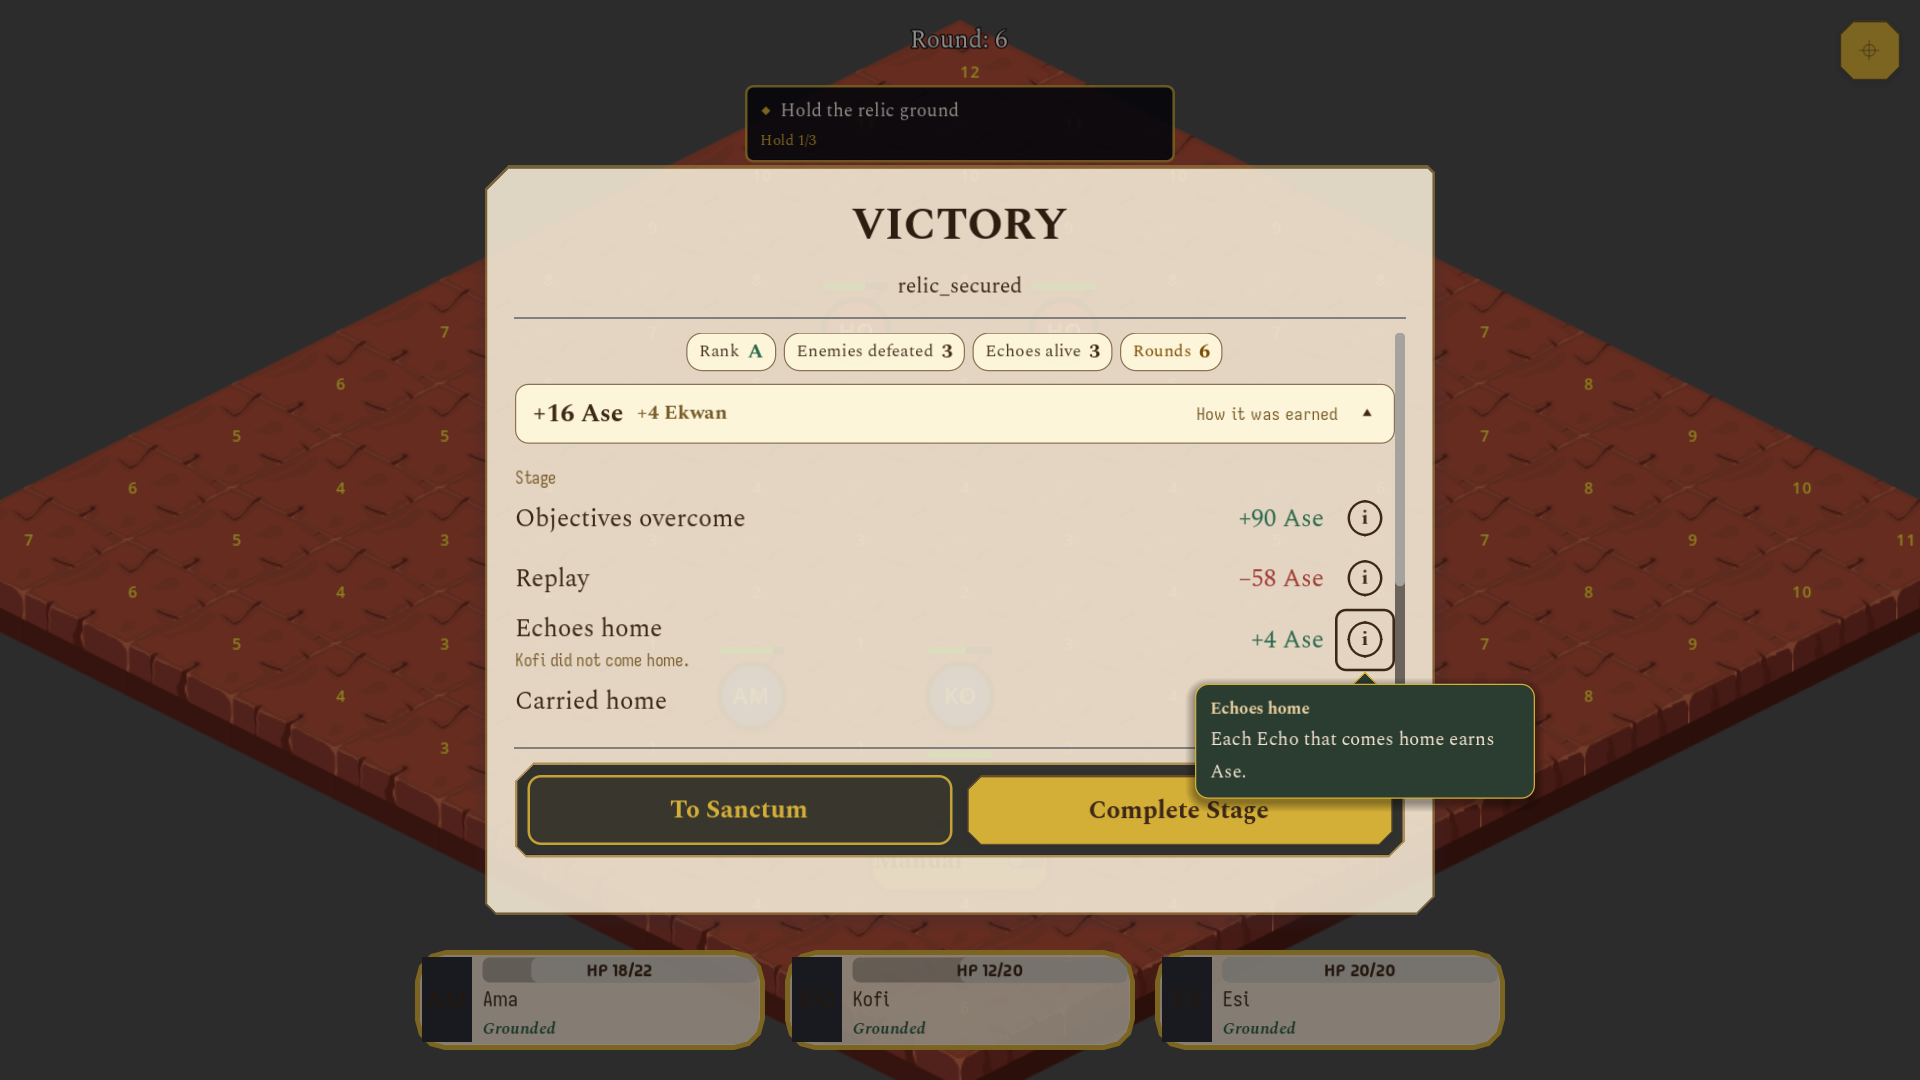
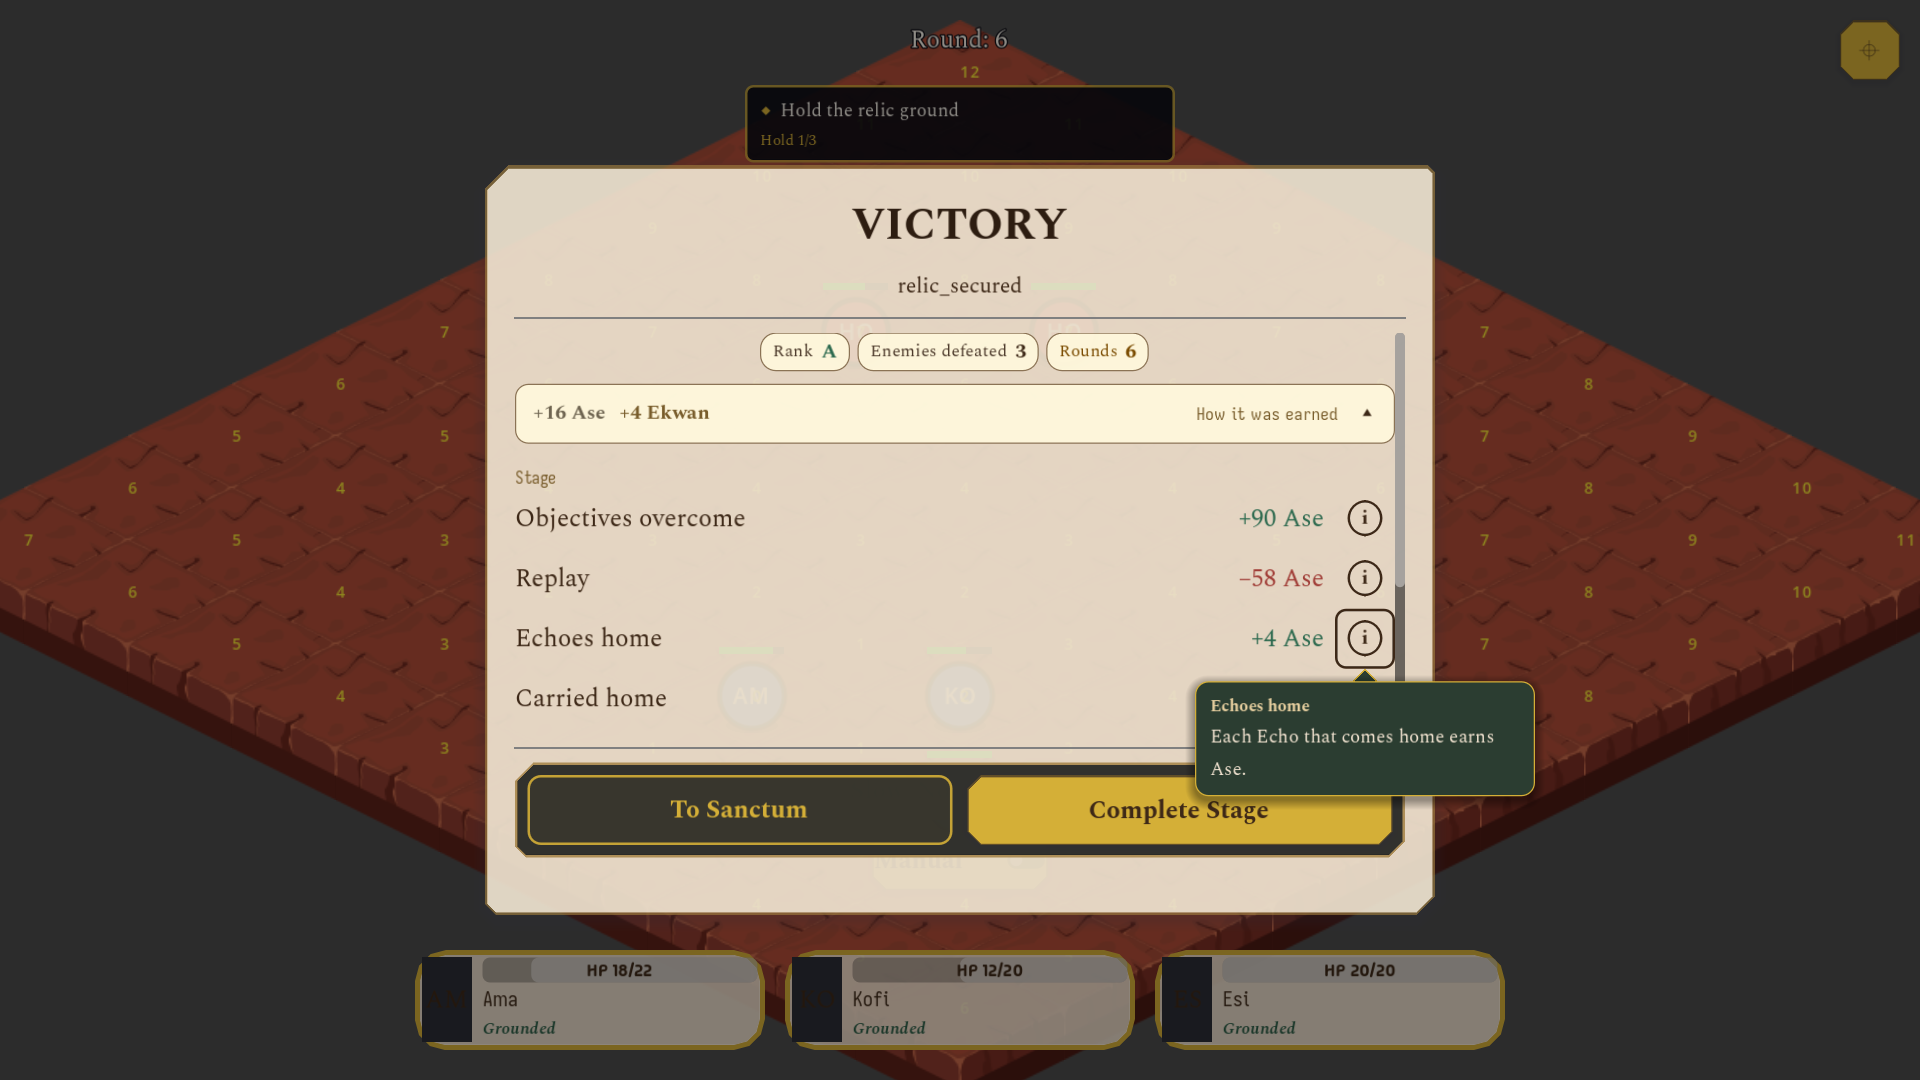
Test Direction E cards; add fixtures, screenshots and notes
Six new payout_ui tests. Screenshot fixtures skip motion to a fixed final state.

diff --git a/docs/stories/v2-payout-explanation/decisions.md b/docs/stories/v2-payout-explanation/decisions.md
@@ -86,3 +86,17 @@ Open for the UI: the return and retreat confirmation can say what is banked now 
   - `carried_advance` tooltip: "Ase and Ekwan the party carried home earlier are taken off the stage payout, so nothing is earned twice."
   - lost-names note: "Kofi did not come home." / "Ama and Kofi did not come home." / "Ama, Kofi and Esi did not come home."
 - All copy stays in `ui/components/PayoutCausePresentation.gd`.
+
+## Direction E cards, Part A (UI, 2026-10-24)
+
+- Mid-stage win card (a win with no fight rows and no stage rows): party and state, then up to three lines, each only when the snapshot has data. No Ase, no ledger, no chips. The rows rise in turn (alpha fade, 100 ms apart).
+- Stage-ending card: the home sequence (party first, each Echo "home" in turn at 130 ms, a lost Echo holds 550 ms and is named once, then the count "home N of M" completes, then the quiet Ase figure fades in at 16 px, muted). The "Echoes alive" chip gives way to the count.
+- Motion: reduced motion shows the final state at once. The one flag is `StopMarkMotion.reduced` (nothing sets it yet). A tap or key press skips to the final state and never consumes the input. Footer buttons stay usable.
+- PROPOSAL placeholders (not approved copy), all in `PayoutCausePresentation`: `THREAD_WHOLE`, `INTEL_LEARNED`, `CHANGE_LINES` ("<name> fell." / "held back." / "was shaken."), `HOME_TAG`.
+- PLACEHOLDER derivation: the Thread line shows when `echoes_survived` equals the number of roster Echoes in `actors` (not ally, not spirit) and the stage `echoes_alive` row has an empty `lost` list. No Thread field exists.
+- Data gaps (BLOCKED, nothing invented):
+  - Objective story mark ("found and overcome"): the combat resolve snapshot has no flag that this fight overcame an objective and no objective description. Not built.
+  - Intel: no `intel_gained` field on the combat victory card (`intel_count` is scout-return only). The line is built behind `intel_gained` > 0 and stays hidden today. The key is requested from the backend.
+  - Thread: no field (see the derivation above).
+  - "What the fight changed": no event field. The line comes from `emotion_summary` tag and direction only, and shows only for a real event.
+- Carried Ekwan: on a scout return or forced retreat, `ekwan_awarded` above 0 shows "Ekwan earned" with its amount in the ledger, no row, no (i).
